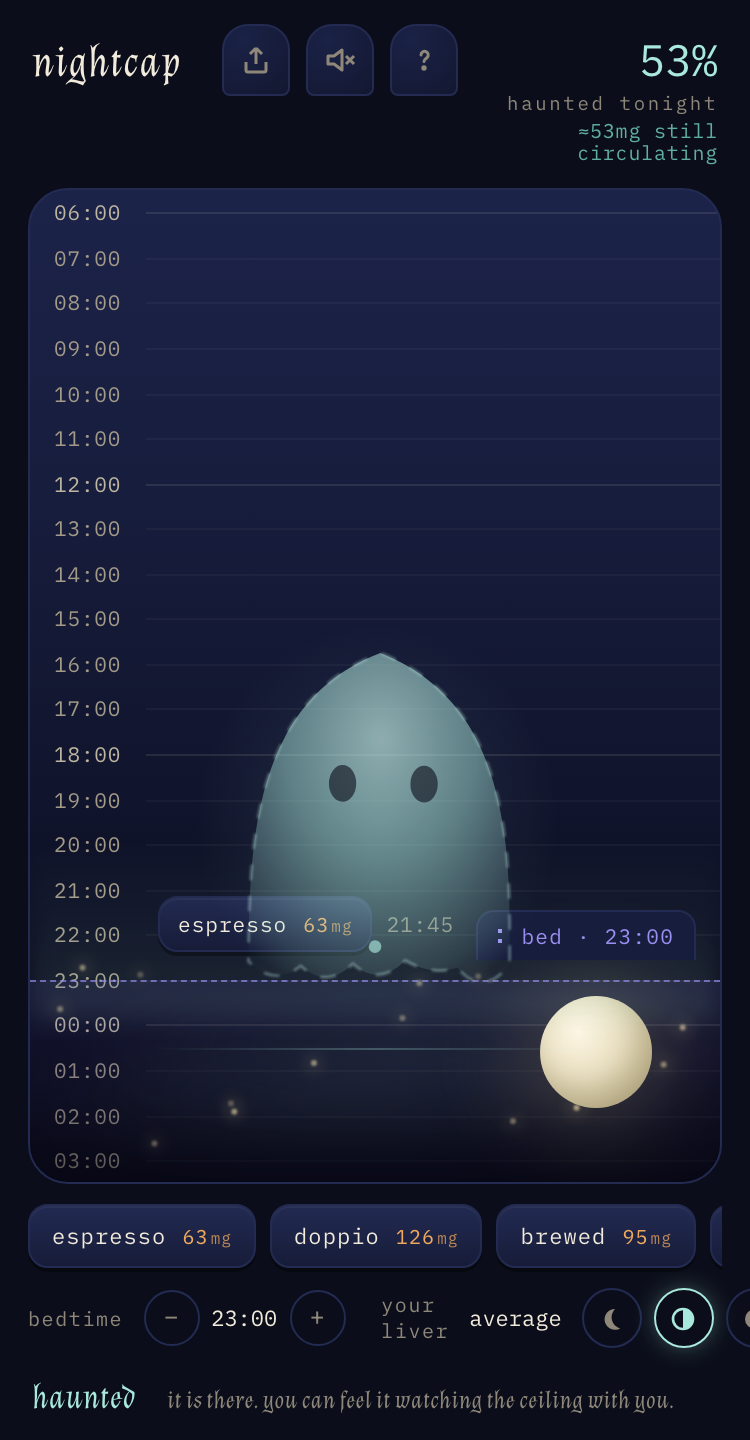
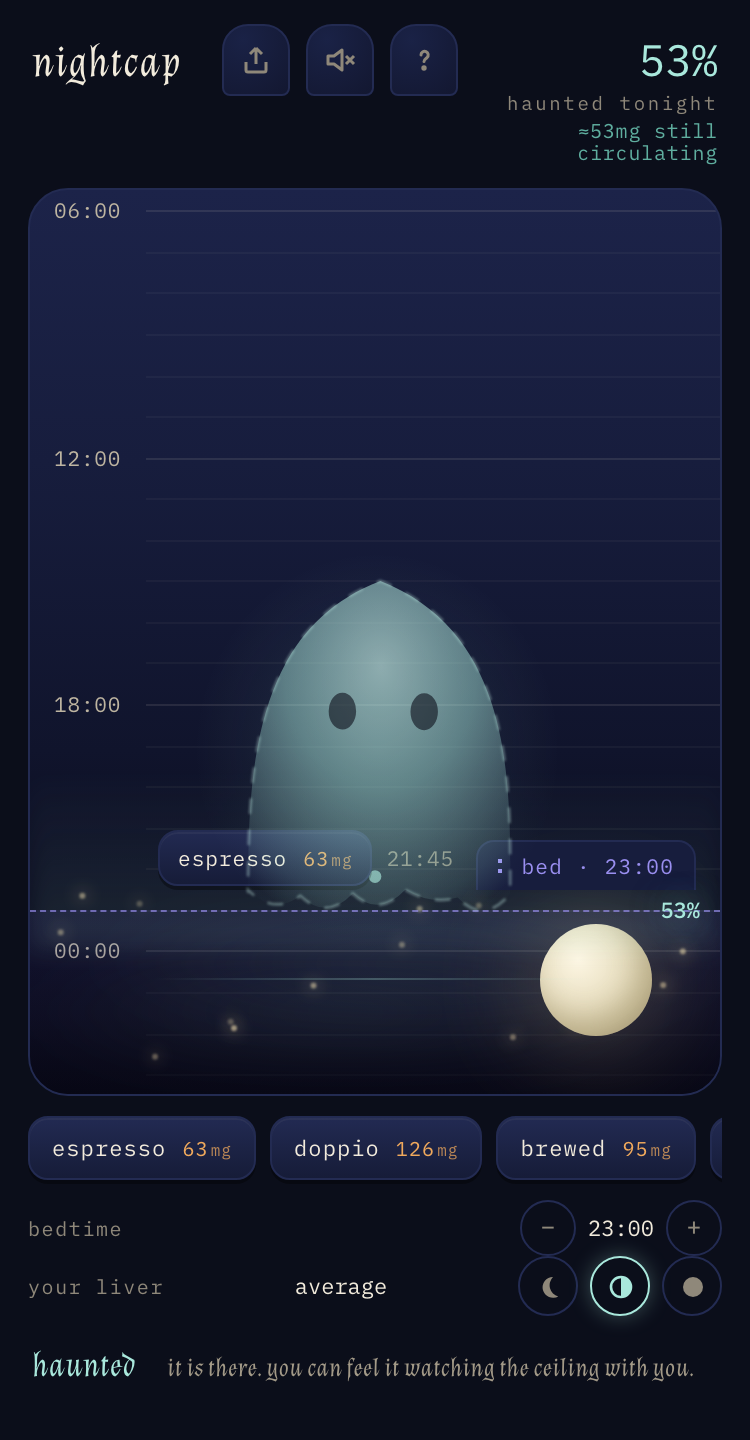
round 4: local score badge, continuous ghost, legible support type
- ghost presence scales with preview haunt instead of dipping on pickup;
  a drop after a preview continues into 'alive' rather than re-materializing
- breathing moves the rim and hem; the body stays anchored to the bed line
- spectral % badge sits beside the ghost so the result reads locally
- brighter 'drop a drink at the time you had it' invitation
- supporting copy brightened (notes, hints, verdict line, tray quiet action)
- share card: 6-hour labels only, larger drink ledger
- mobile: bedtime and liver settings stack into full rows (fixes clipped dial),
  only 6-hour labels survive, % badge tucks to the right edge

Generated with [Devin](https://devin.ai)

Changed region(s): [[0.0307, 0.125, 1.0, 1.0]]

diff --git a/src/index.css b/src/index.css
@@ -45,7 +45,7 @@ button { font: inherit; color: inherit; background: none; border: 0; cursor: poi
 }
 .tagline {
   font-family: var(--font-display); font-style: italic;
-  font-size: 14px; color: var(--bone-dim);
+  font-size: 14px; color: #a89f8d;
 }
 .mast-spacer { flex: 1; }
 .scoreblock { text-align: right; line-height: 1.1; }
@@ -117,7 +117,7 @@ button { font: inherit; color: inherit; background: none; border: 0; cursor: poi
 .chip:active { transform: scale(0.97); cursor: grabbing; }
 .chip .mg { color: var(--amber); font-size: 10px; }
 .chip .mg .unit { font-size: 8px; opacity: 0.75; margin-left: 1px; }
-.chip .note { display: block; font-size: 9px; color: var(--bone-dim); letter-spacing: 0.02em; margin-top: 1px; font-family: var(--font-ui); }
+.chip .note { display: block; font-size: 9.5px; color: #a89f8d; letter-spacing: 0.02em; margin-top: 1px; font-family: var(--font-ui); }
 
 /* ---------- moon dial (liver) ---------- */
 .setting { display: flex; align-items: center; justify-content: space-between; gap: 10px; }
@@ -146,7 +146,7 @@ button { font: inherit; color: inherit; background: none; border: 0; cursor: poi
 .bedstepper button:hover { color: var(--spectral); border-color: var(--spectral-dim); }
 .bedstepper button:active { transform: scale(0.86); }
 .rail .spacer { flex: 1; }
-.rail-hint { font-size: 11px; color: var(--bone-dim); line-height: 1.5; }
+.rail-hint { font-size: 11px; color: #a89f8d; line-height: 1.5; }
 
 /* ---------- the descent ---------- */
 .descent {
@@ -334,10 +334,18 @@ button { font: inherit; color: inherit; background: none; border: 0; cursor: poi
 /* the empty column keeps a quiet invitation where a drink would land */
 .drop-hint {
   position: absolute; left: 50%; transform: translate(-50%, -50%);
-  padding: 7px 14px; border-radius: 999px;
-  border: 1px dashed rgba(240, 169, 92, 0.4);
-  font-family: var(--font-mono); font-size: 10.5px; letter-spacing: 0.05em;
-  color: var(--amber-dim); pointer-events: none; white-space: nowrap;
+  padding: 8px 16px; border-radius: 999px;
+  border: 1px dashed rgba(240, 169, 92, 0.55);
+  font-family: var(--font-mono); font-size: 11px; letter-spacing: 0.04em;
+  color: var(--amber); pointer-events: none; white-space: nowrap;
+  background: rgba(20, 16, 32, 0.6);
+}
+/* the score sits beside its ghost so the result reads locally */
+.ghostscore {
+  position: absolute; left: calc(50% + 116px); transform: translateY(-50%);
+  font-family: var(--font-mono); font-size: 13px; font-weight: 500;
+  color: var(--spectral); pointer-events: none;
+  text-shadow: 0 0 16px rgba(169, 232, 220, 0.5);
 }
 
 /* empty night */
@@ -367,9 +375,9 @@ button { font: inherit; color: inherit; background: none; border: 0; cursor: poi
   font-size: 20px; color: var(--spectral);
   min-width: 170px;
 }
-.verdict-line { font-size: 12.5px; color: var(--bone-dim); font-style: italic; font-family: var(--font-display); }
+.verdict-line { font-size: 13px; color: #a39a88; font-style: italic; font-family: var(--font-display); }
 .foot .spacer { flex: 1; }
-.foot-hint { font-family: var(--font-mono); font-size: 10px; color: var(--bone-dim); letter-spacing: 0.06em; }
+.foot-hint { font-family: var(--font-mono); font-size: 10px; color: #a39a88; letter-spacing: 0.06em; }
 .guide-on .foot-hint { visibility: hidden; }
 
 /* ---------- guide ---------- */
@@ -471,13 +479,13 @@ button { font: inherit; color: inherit; background: none; border: 0; cursor: poi
 .tray-primary:active { transform: scale(0.95); }
 .tray-primary:disabled { opacity: 0.4; }
 .tray-quiet {
-  font-family: var(--font-mono); font-size: 11px; color: var(--bone-dim);
+  font-family: var(--font-mono); font-size: 11px; color: #a89f8d;
   padding: 8px 2px; letter-spacing: 0.03em;
   border-bottom: 1px solid transparent;
   transition: color 140ms, border-color 140ms;
 }
 .tray-quiet:hover { color: var(--spectral); border-bottom-color: var(--spectral-dim); }
-.tray-note { font-size: 10.5px; color: var(--bone-dim); margin-top: 10px; line-height: 1.5; }
+.tray-note { font-size: 10.5px; color: #a39a88; margin-top: 10px; line-height: 1.5; }
 
 /* ---------- mobile ---------- */
 @media (max-width: 760px) {
@@ -490,8 +498,11 @@ button { font: inherit; color: inherit; background: none; border: 0; cursor: poi
   .shelf { flex-direction: row; overflow-x: auto; overflow-y: hidden; padding-bottom: 2px; }
   .shelf .chip { flex: 0 0 auto; }
   .shelf .chip .note { display: none; }
-  .settings-block { display: flex; gap: 18px; align-items: center; }
-  .settings-block .setting { margin-top: 0 !important; }
+  .settings-block { flex-direction: column; align-items: stretch; gap: 6px; }
+  .settings-block .setting { margin-top: 0 !important; width: 100%; }
+  /* only the 6-hour labels survive the small column */
+  .hourrow:not(.major) .hourlabel { display: none; }
+  .ghostscore { font-size: 11px; left: auto; right: 10px; }
   .rail-hint, .rail .spacer { display: none; }
   .descent { min-height: 0; }
   .ghostspot { width: min(280px, 46%); }

diff --git a/src/components/ShareTray.tsx b/src/components/ShareTray.tsx
@@ -62,14 +62,16 @@ function drawCard(
     c.beginPath(); c.arc(col.x + 30 + (i * 61) % (col.w - 60), bedY + 40 + (i * 97) % (col.y + col.h - bedY - 80), 2.4, 0, 7); c.fill();
   }
   c.globalAlpha = 1;
-  // hour ticks
-  c.font = "400 17px 'IBM Plex Mono'";
+  // hour ticks every 3h, labels only every 6h
+  c.font = "400 16px 'IBM Plex Mono'";
   for (let m = START; m <= END; m += 180) {
     const y = yFor(m);
-    c.strokeStyle = "rgba(242,235,220,0.07)"; c.lineWidth = 1;
+    c.strokeStyle = "rgba(242,235,220,0.06)"; c.lineWidth = 1;
     c.beginPath(); c.moveTo(col.x + 52, y); c.lineTo(col.x + col.w - 16, y); c.stroke();
-    c.fillStyle = "#8f887a"; c.textAlign = "left";
-    c.fillText(fmtTime(m), col.x + 14, y + 6);
+    if (m % 360 === 0) {
+      c.fillStyle = "#a89f8d"; c.textAlign = "left";
+      c.fillText(fmtTime(m), col.x + 12, y + 5);
+    }
   }
   // drinks
   for (const p of state.placed) {
@@ -151,20 +153,20 @@ function drawCard(
   c.fillStyle = "#f2ebdc";
   c.font = "italic 400 54px 'Almendra'";
   c.fillText(verdict.band, RX, 660);
-  c.fillStyle = "#8f887a";
+  c.fillStyle = "#a89f8d";
   c.font = "italic 400 30px 'Almendra'";
   wrapText(c, verdict.line, RX, 706, W - RX - 80, 40);
 
   // evidence
-  c.font = "400 24px 'IBM Plex Mono'";
-  let ey2 = 830;
-  for (const p of state.placed.slice(0, 7)) {
+  c.font = "400 27px 'IBM Plex Mono'";
+  let ey2 = 840;
+  for (const p of state.placed.slice(0, 6)) {
     const d = DRINKS.find((x) => x.id === p.drinkId)!;
-    c.fillStyle = "#8f887a";
+    c.fillStyle = "#a89f8d";
     c.fillText(fmtTime(p.minutes), RX + 4, ey2);
-    c.fillStyle = p.minutes > state.bedtime ? "#5f5a4d" : "#f0a95c";
-    c.fillText(`${d.name} · ${d.mg}mg`, RX + 130, ey2);
-    ey2 += 42;
+    c.fillStyle = p.minutes > state.bedtime ? "#6b6656" : "#f0a95c";
+    c.fillText(`${d.name} · ${d.mg}mg`, RX + 150, ey2);
+    ey2 += 50;
   }
 
   c.textAlign = "left";

diff --git a/src/App.tsx b/src/App.tsx
@@ -186,11 +186,14 @@ export default function App() {
     sfxDrop();
     const g = ghostState.current;
     g.haunt = previewScore(d, d.snap);
-    if (g.haunt >= 5) {
+    if (g.haunt >= 5 && g.mode !== "premonition") {
+      // a preview already owns the ghost; only a cold start re-materializes it
       g.mode = "materialize";
       sfxMaterialize();
       clearTimeout(ghostModeTimer.current);
       ghostModeTimer.current = window.setTimeout(() => { if (g.mode === "materialize") g.mode = "alive"; }, 900);
+    } else if (g.haunt >= 5) {
+      g.mode = "alive";
     }
   };
 
@@ -567,7 +570,10 @@ export default function App() {
           </div>
 
           {placed.length === 0 && !drag && !kbCursor && (
-            <div className="drop-hint" style={{ top: "38%" }}>drop a drink here</div>
+            <div className="drop-hint" style={{ top: "38%" }}>drop a drink at the time you had it</div>
+          )}
+          {score > 0 && (
+            <div className="ghostscore" style={{ top: `${bedPct}%` }}>{score}%</div>
           )}
           {score < 5 && !drag && !kbCursor && (
             <div className="empty-night" style={{ top: `calc(${bedPct}% + 48px)` }}>

diff --git a/src/ghost/Ghost.tsx b/src/ghost/Ghost.tsx
@@ -89,7 +89,7 @@ export function Ghost({ state }: { state: GhostState }) {
       }
       const target =
         s.mode === "hidden" ? 0 :
-        s.mode === "premonition" ? 0.5 :
+        s.mode === "premonition" ? clamp01(0.45 + h * 0.55) :
         s.mode === "dissolve" ? 0 : 1;
       const speed = s.mode === "materialize" ? 0.028 : s.mode === "dissolve" ? 0.05 : 0.1;
       appear = lerp(appear, target, speed);
@@ -99,7 +99,8 @@ export function Ghost({ state }: { state: GhostState }) {
       }
 
       const agitation = s.overdose ? 1.6 : 0.25 + h * 0.75;
-      const breathe = n1(w * 0.55) * (s.idle ? 2 : 3.2) * motion;
+      // breathing lives in the rim and hem; the body stays anchored to the line
+      const breathe = n1(w * 0.55) * (s.idle ? 1 : 1.6) * motion;
       const jitX = (s.overdose ? n1(w * 13) * 2.4 : n1(w * 0.8 + 9) * 1.1) * motion;
       // inhale: a drink landing makes the ghost swell briefly
       s.pulse = Math.max(0, s.pulse - 0.03);
